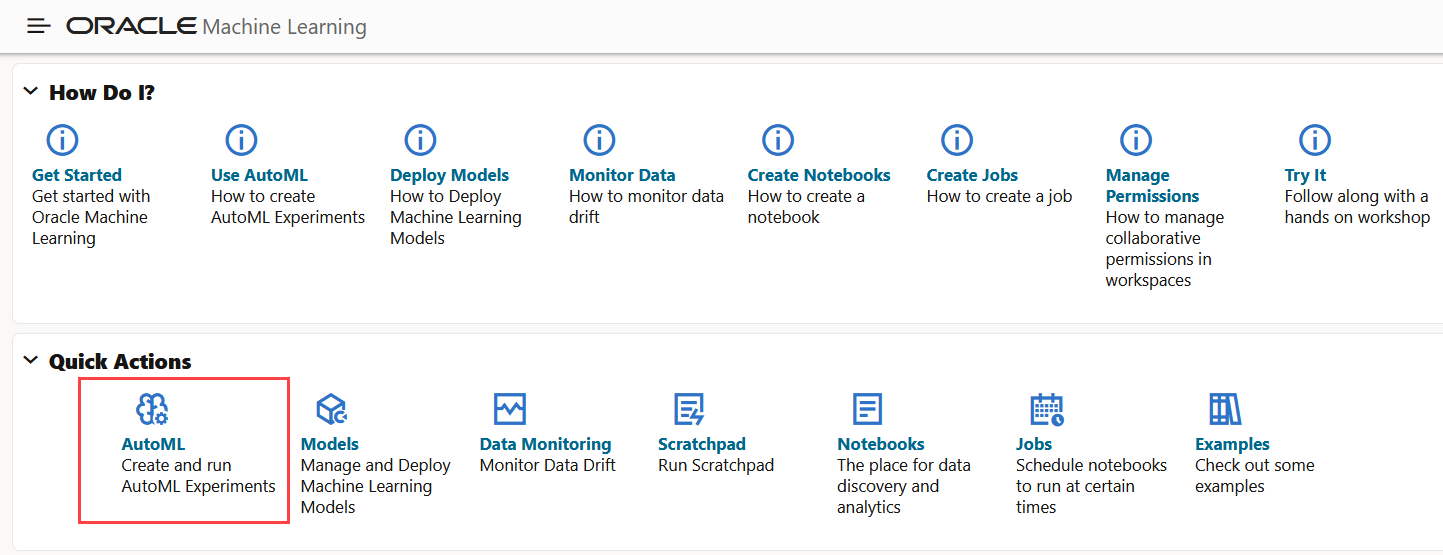
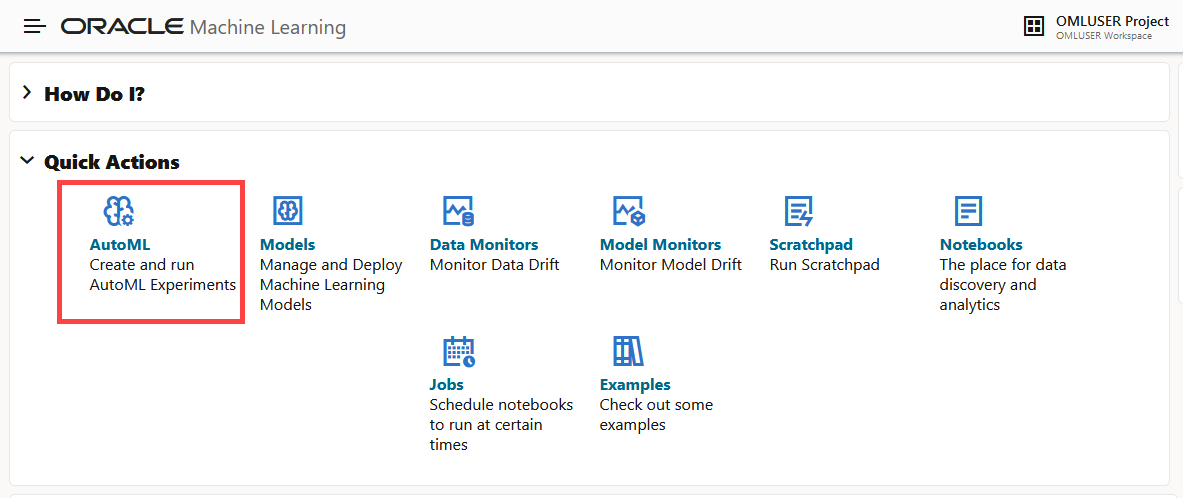
Screenshots updated

diff --git a/oml-fun-on-adb/omlpy/omlpy.md b/oml-fun-on-adb/omlpy/omlpy.md
@@ -37,13 +37,17 @@ With OML4Py, you can create Python proxy objects that can be used to access, ana
 
 This step illustrates how you can access the OML4Py Classification DT (1) notebook available on the Notebook page which was created in Lab 1. The OML4Py Classification DT (1) notebook was created based on the example template of the OML4Py Classification Decision Tree.
 
-1. Click the Cloud menu icon ![Hamburger Icon](images/hamburger.png) on the top left corner of the page to open the left navigation menu. Click **Notebooks** to proceed to the Notebook page. Alternatively, you can click **Notebooks** on the home page to go directly to the Notebooks page.
+1. Click the Cloud menu icon ![Cloud menu icon](images/cloud-menu-icon.png) on the top left corner of the page to open the left navigation menu. Click **Notebooks** to proceed to the Notebook page. 
 
-	![Left pane navigation to Notebooks through Cloud menu icon.](images/hamburger-notebooks.png)
+	![Left pane navigation to Notebooks through Cloud menu icon.](images/left-nav-pane-notebooks.png)
+
+Alternatively, you can click **Notebooks** on the home page to go directly to the Notebooks page.
+
+![Homepage Notebooks.](images/homepage-notebooks.png)
 
 2. The Notebook page opens with the list of notebooks available. Click the OML4Py Classification DT (1) notebook to open it.
 
-	![List of Notebooks available.](images/list-notebooks-available.png)
+	![List of Notebooks available.](images/open-classification-dt.png)
 
 3. The OML4Py Classification DT (1) notebook opens up in the notebook editor. Click the gear icon ![Gear Icon](images/gear-icon.png) on the top right corner of the notebook to view and set the interpreter binding order.
 

diff --git a/oml-fun-on-adb/get-started-livelabs/get-started-livelabs.md b/oml-fun-on-adb/get-started-livelabs/get-started-livelabs.md
@@ -36,10 +36,6 @@ In this lab, you will learn how to:
 
 [](include:oml-sign-into-oml.md)
 
-## Task 4: Create the CUSTOMERS360 Table
-
-[](include:oml-create-cust360-table.md)
-
 ## Learn More
 
 * [Get Started with Oracle Machine Learning for Python](https://docs.oracle.com/en/database/oracle/machine-learning/oml4py/1/mlpug/get-started-with-oml4py.html#GUID-B45A76E6-CE48-4E49-B803-D25CA44B09ED)
@@ -49,4 +45,4 @@ In this lab, you will learn how to:
 
 * **Author** - Moitreyee Hazarika, Principal User Assistance Developer, Database User Assistance Development
 * **Contributors** -  Mark Hornick, Senior Director, Data Science and Machine Learning; Marcos Arancibia Coddou, Product Manager, Oracle Data Science; Sherry LaMonica, Principal Member of Tech Staff, Advanced Analytics, Machine Learning
-* **Last Updated By/Date** - Moitreyee Hazarika, March 2024
+* **Last Updated By/Date** - Moitreyee Hazarika, September 2024

diff --git a/oml-fun-on-adb/automl/automl.md b/oml-fun-on-adb/automl/automl.md
@@ -40,9 +40,9 @@ To access AutoML UI, you must sign into the Oracle Machine Learning User Interfa
 
 	![home page](images/homepage-automl.png)
 
-	Alternatively, you can click the Cloud menu icon ![hamburger icon](images/hamburger.png) on the top left corner of the home page to open the left navigation menu. Click **AutoML Experiments**. This opens the AutoML Experiments page.
+	Alternatively, you can click the Cloud menu icon ![Cloud menu icon](images/cloud-menu-icon.png) on the top left corner of the home page to open the left navigation menu. Click **AutoML Experiments**. This opens the AutoML Experiments page.
 
-	![home page](images/hamburger-automl-homepage.png)
+	![AutoML UI in left navigation pane](images/left-nav-pane-automl.png)
 
 ## Task 2: Create an Experiment
 

diff --git a/oml-fun-on-adb/omlsql/omlsql.md b/oml-fun-on-adb/omlsql/omlsql.md
@@ -25,11 +25,11 @@ This lab assumes you have:
 
 ## Task 1: Examine the Data
 
-1. Click the Cloud menu icon ![Hamburger image](images/hamburger.png) to open the left navigation menu and click **Notebooks**.
+1. Click the Cloud menu icon Cloud menu icon ![Cloud menu icon](images/cloud-menu-icon.png) to open the left navigation menu and click **Notebooks**.
 
 2. The Notebooks page opens with all the notebooks listed in it. Click the **OML4SQL Time Series ESM (1)** notebook to open it.
 
-    ![Notebooks listed](images/notebooklist.png)
+    ![ESM Notebooks listed](images/open-esm-notebook.png)
 
 3. The _OML4SQL Time Series ESM (1)_ notebook opens in the notebook editor. Click the gear icon to view and set the interpreter binding order.
 
